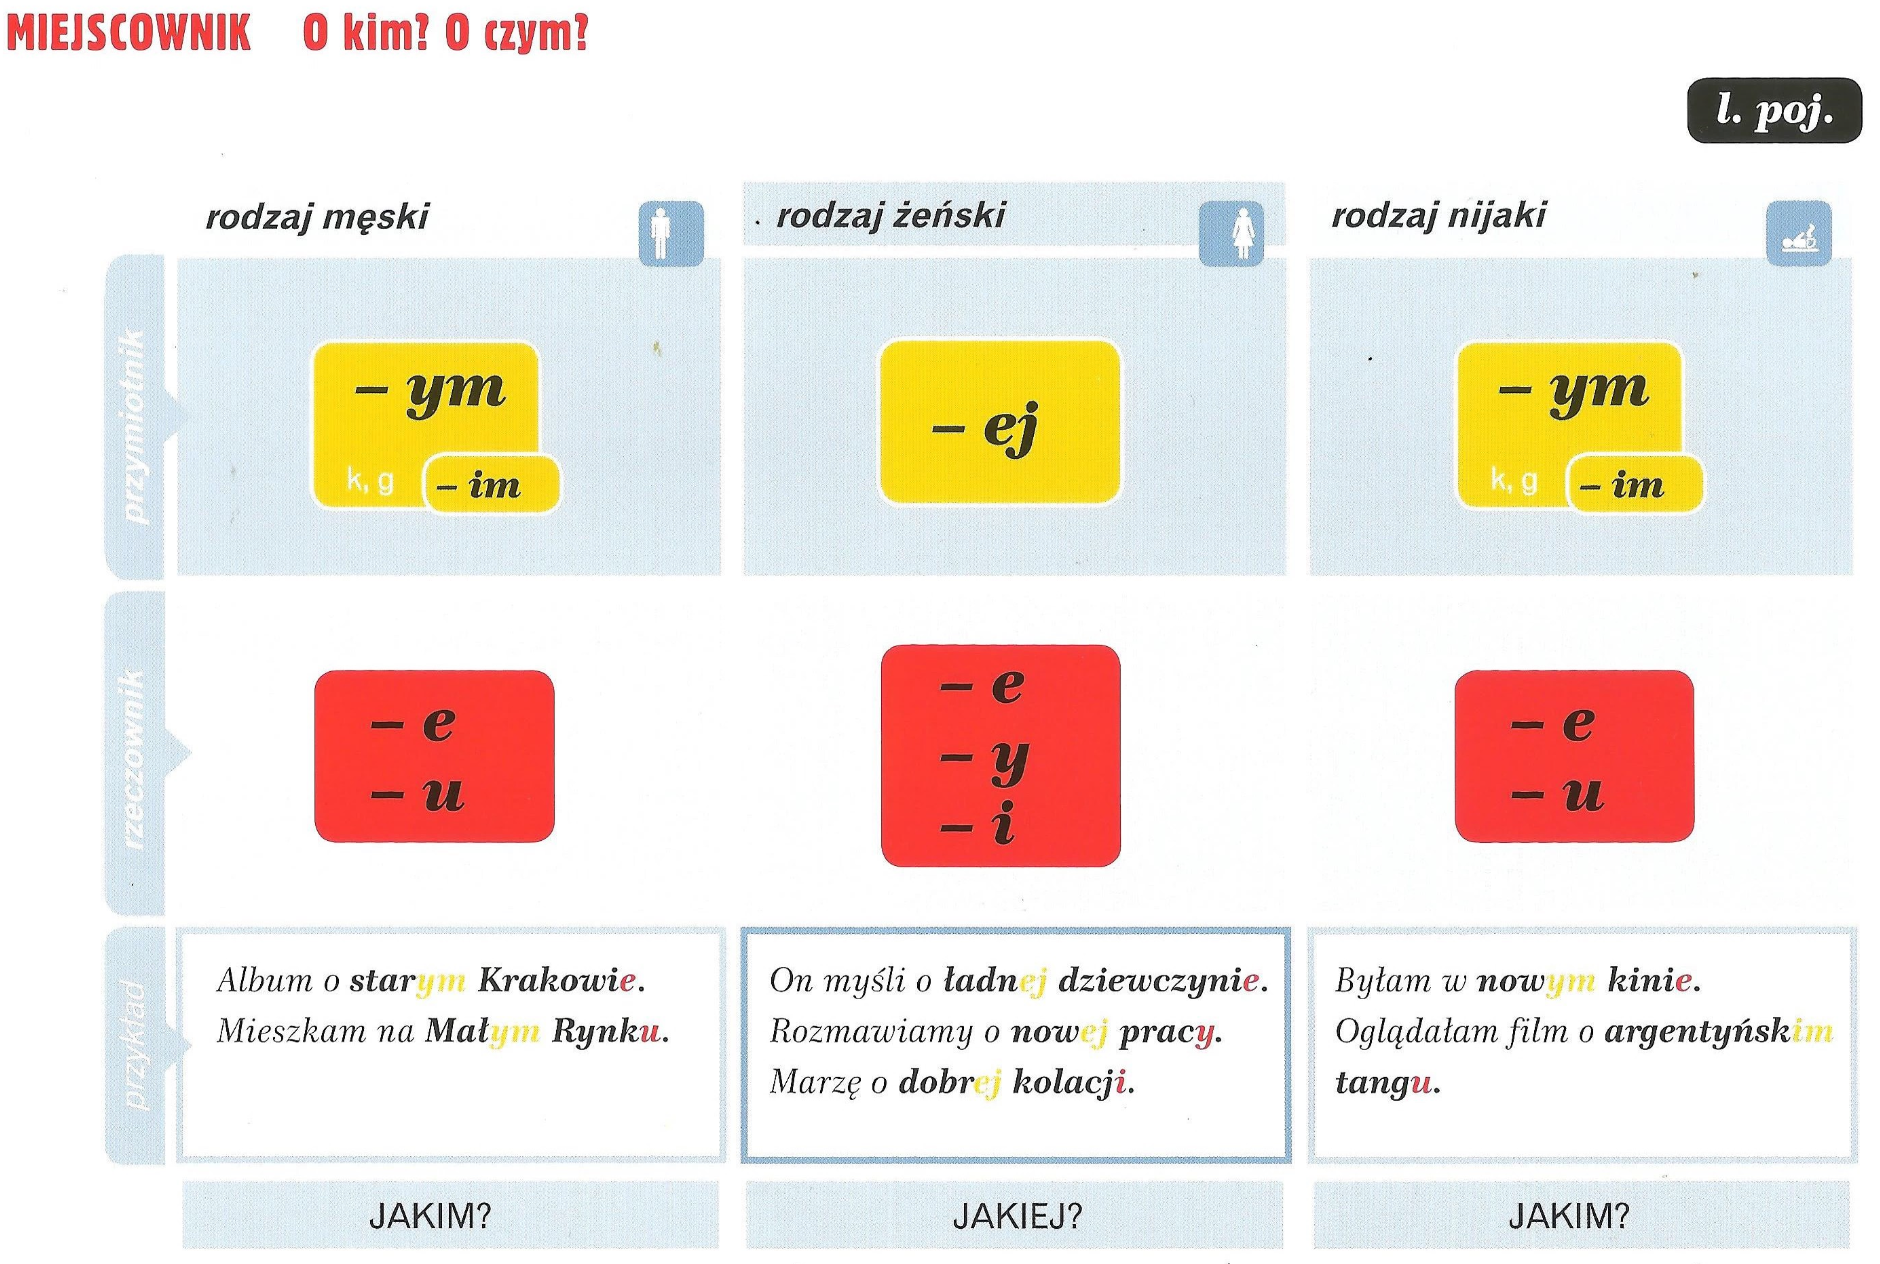
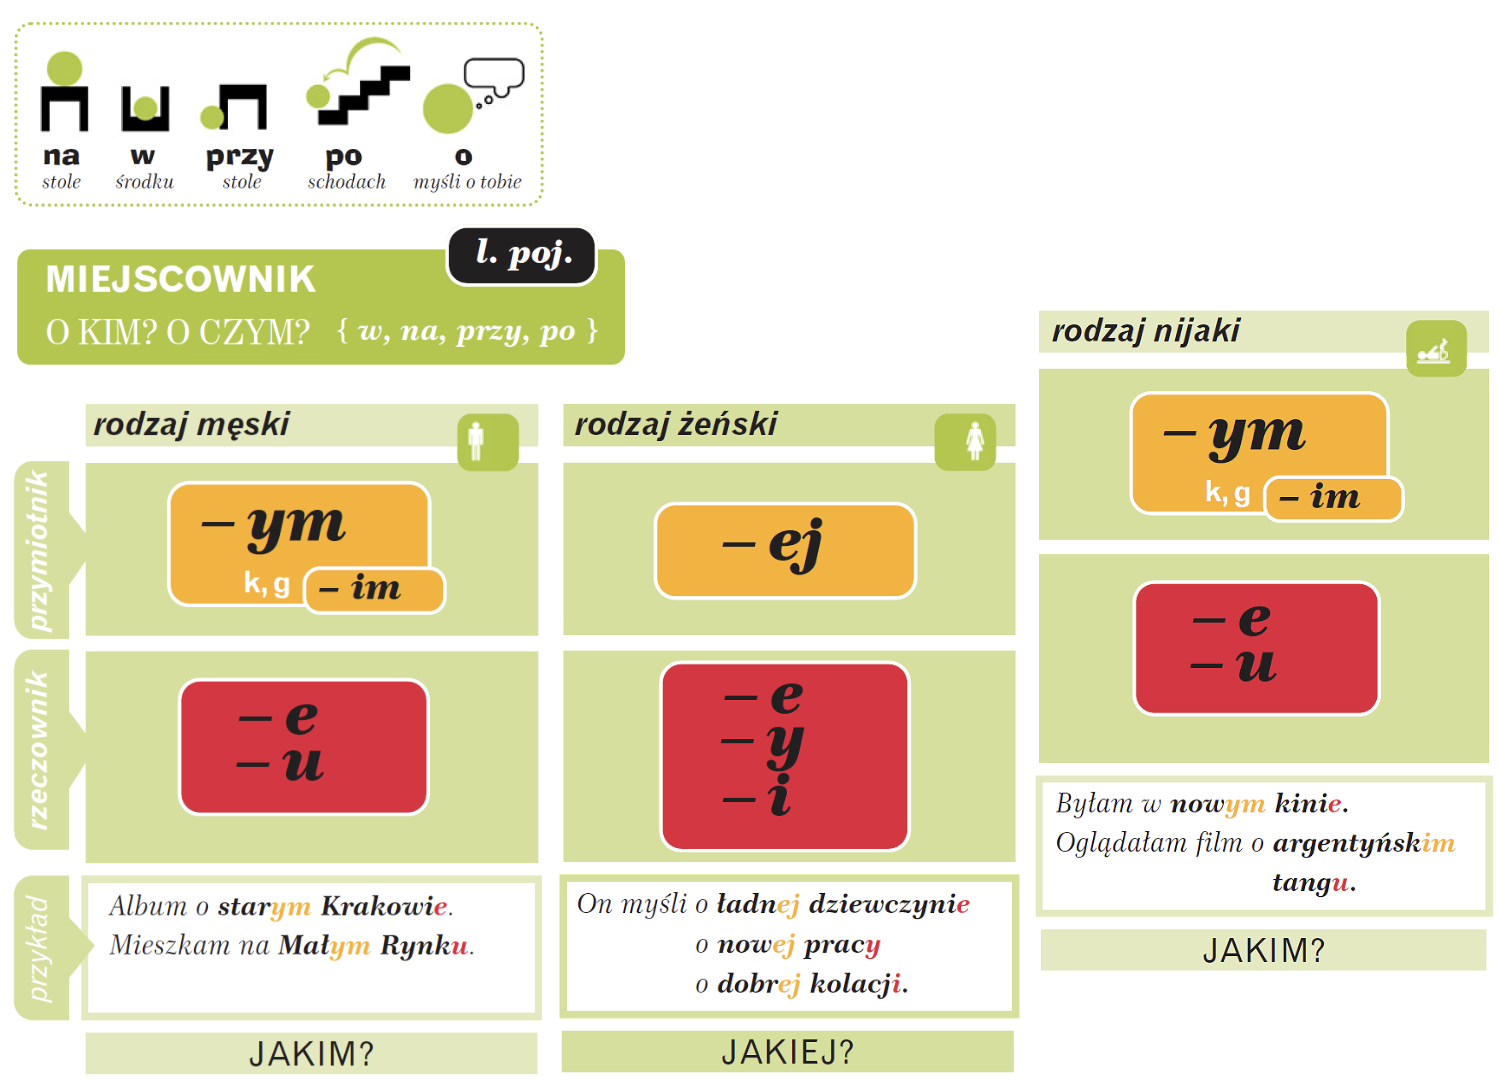
end czasownik

diff --git a/4_klasa/gramatyka/lekcji/czasownik.html b/4_klasa/gramatyka/lekcji/czasownik.html
@@ -64,8 +64,11 @@
     </header>
     <main class="wrapper">
         <h1>Gramatyka</h1>
-        <h2>Czasownik</h2>
-       
+        <h2></h2>
+        <div class="zagolRed">
+            <p>Czasownik</p>
+        </div>
+
         <div>
             <p><em>Czasownik to część mowy określająca czynności, stany lub procesy.</em></p>
             <div class="image">
@@ -99,45 +102,333 @@
                 <li><a class="time" data-time="606">10:06 Podsumowanie</a></li>
             </ul>
         </div>
-        <div class="two">
-            <div class="image">
-                <img src="https://aniakubica.com/wp-content/uploads/2021/03/czasownik-notatka.jpg" alt=""
-                    class="zoomable">
-            </div>
-            <div class="image">
-                <img src="https://aniakubica.com/wp-content/uploads/2021/03/czasowniki-osobowe-nieosobowe.jpg" alt=""
-                    class="zoomable">
-                     <img src="https://aniakubica.com/wp-content/uploads/2021/03/czasowniki-nieodobowe-podzial.jpg" alt=""
-                class="zoomable">
-            </div>
 
-        </div>
-        <div class="two">
-            <div class="image">
-                <img src="https://aniakubica.com/wp-content/uploads/2021/03/odmiana-czasownika.jpg" alt=""
-                    class="zoomable">
+        <!-- Koniugacje -->
+        <div>
+            <p class="p35">Koniugacje</p>
+            <p class="p22"><b>Czasowniki</b> w języku polskim odmieniają się przez <b>osoby, czasy, tryby, strony</b> i
+                częściowo także przez <b>rodzaje</b>. Podstawową formą czasownika jest <em
+                    class="red">bezokolocznik</em>, który zwykle ma końcówkię <em><b class="red">-ć</b></em>.</p>
+            <h6>W czasie terażniejszym wyróżniamy try <em class="red">grupy koniugacyjne:</em></h6>
+            <p class="p24 violet"><b>I - -ę, -esz</b></p>
+            <p class="p24 violet"><b>II - -ę, -isz/ysz</b></p>
+            <p class="p24 violet"><b>III - -m, -sz</b></p>
+            <p class="p22">Niestety, przynależność do danej grupy nie jest tak oczywista. Nie zawsze po końcóece
+                bezokolicznika możemy okrieślić model koniugacji. Informację tę należy czasem sprawdzić w
+                <em>słowniku</em>.
+            </p>
+            <p class="p22"><b>Odmieniając</b> czasownik należy <em>odciąć końcówkę bezokolicznika</em> i <em>dodać
+                    końcówki odpowiednej koniugacji.</em></p>
+            <div class="two">
+                <div class="image">
+                    <img src="./image/koniug1a.png" class="zoomable"><img src="./image/koniug1b.png" class="zoomable">
+                </div>
+                <div class="image">
+                    <img src="./image/koniug2_3.png" class="zoomable">
+                </div>
             </div>
             <div class="image">
-                <img src="https://aniakubica.com/wp-content/uploads/2021/03/odmiana-czasownika-przez-osoby-i-liczby.jpg"
-                    alt="" class="zoomable">
+                <img src="./image/koniugacja.png" class="zoomable">
             </div>
-        </div>
-        <div class="image">
-            <img src="https://aniakubica.com/wp-content/uploads/2021/03/czasownik-odmiana-przez-czasy.jpg" alt=""
-                class="zoomable">
-        </div>
-        <div class="image">
-            <img src="https://aniakubica.com/wp-content/uploads/2021/03/tryby-czasownika.jpg" alt="" class="zoomable">
-        </div>
-        <div class="image">
-            <img src="https://aniakubica.com/wp-content/uploads/2021/03/aspekty-czasownika.jpg" alt="" class="zoomable">
-        </div>
-        <div class="image">
-            <img src="https://aniakubica.com/wp-content/uploads/2021/03/pisownia-nie-z-czasownikami.jpg" alt=""
-                class="zoomable">
         </div>
 
-        <h3><a href="https://aniakubica.com/kursy-internetowe/czasownik-od-podstaw/" target="_blank">Czasownik od podstaw >>></a></h3>
+        <p class="p35">Czasownik</p>
+        <div>
+            <div class="two">
+                <div class="image">
+                    <img src="https://aniakubica.com/wp-content/uploads/2021/03/czasownik-notatka.jpg" alt=""
+                        class="zoomable">
+                </div>
+                <div class="image">
+                    <img src="https://aniakubica.com/wp-content/uploads/2021/03/czasowniki-osobowe-nieosobowe.jpg"
+                        alt="" class="zoomable">
+                    <img src="https://aniakubica.com/wp-content/uploads/2021/03/czasowniki-nieodobowe-podzial.jpg"
+                        alt="" class="zoomable">
+                </div>
+
+            </div>
+            <div class="two">
+                <div class="image">
+                    <img src="https://aniakubica.com/wp-content/uploads/2021/03/odmiana-czasownika.jpg" alt=""
+                        class="zoomable">
+                </div>
+                <div class="image">
+                    <img src="https://aniakubica.com/wp-content/uploads/2021/03/odmiana-czasownika-przez-osoby-i-liczby.jpg"
+                        alt="" class="zoomable">
+                </div>
+            </div>
+        </div>
+        <!-- czas -->
+        <p class="p35">Czas czasownika</p>
+        <div>
+
+            <div class="image">
+                <img src="https://aniakubica.com/wp-content/uploads/2021/03/czasownik-odmiana-przez-czasy.jpg" alt=""
+                    class="zoomable">
+            </div>
+            <h3>Czas przeszły (прошлое)</h3>
+            <div class="two">
+                <div class="image"><img src="./image/czas_prześl_a.png" class="zoomable" style="width: 100%;"></div>
+                <div class="image"><img
+                        src="https://student.e-coursebook.eu/api/content/6d076a4d-05bb-4a8f-becb-27987eb99d24/IMAGE/El-wA11s/113a-kiedy.png"
+                        class="zoomable" style="width: 65%;"></div>
+            </div>
+            <div class="image" style="width: 100%;"><img src="./image/czas_prześl_b.png" class="zoomable"
+                    style="width: 100%;"></div>
+            <div class="image"><img
+                    src="https://student.e-coursebook.eu/api/content/6d076a4d-05bb-4a8f-becb-27987eb99d24/IMAGE/El-ZuRmo/pic(113C-je%C5%9B%C4%87).gif"
+                    class="zoomable" style="width: 60%;"></div>
+            <div class="image">
+                <img src="https://student.e-coursebook.eu/api/content/6d076a4d-05bb-4a8f-becb-27987eb99d24/IMAGE/El-ayAuG/PIC1(113C-ISC).png"
+                    class="zoomable" style="width: 60%;">
+            </div>
+            <h3>Czas przyszły złożony <br>(будущее сложное)</h3>
+            <div class="image"><img src="./image/czas_przyszly_a.png" class="zoomable" style="width: 70%;"></div>
+            <div class="image">
+                <img src="./image/czas_przyszly_b.png" class="zoomable" style="width: 100%;">
+            </div>
+            <!-- Aspekt czasownika -->
+            <p class="p35">Aspekt czasownika</p>
+            <h6>1⃣ Что такое аспект глагола</h6>
+            <p class="p22">В польском (как и в русском) аспект глагола показывает, как действие развивается во времени:</p>
+            <ul class="ul">
+                <li>Aspekt dokonany (совершенный) — действие завершённое, указывает на результат.</li>
+                <li>Aspekt niedokonany (несовершенный) — действие процессуальное или повторяющееся, не акцентирует на результате.</li>
+            </ul>
+            <h6>Важные моменты для использования</h6>
+            <p class="p20">1. Niedokonany часто используется:</p>
+            <ul class="ul">
+                <li>для действий, которые происходят регулярно: „Codziennie czytam książkę” → «Каждый день читаю книгу»</li>
+                <li>для описания процесса: „Czytam książkę” → «Читаю книгу сейчас»</li>
+            </ul>
+            <p class="p20">2. Dokonany чаще для:</p>
+            <ul class="ul">
+                <li>завершённых действий: „Przeczytałem książkę” → «Я прочитал книгу»</li>
+                <li>однократных событий: „Napisałem list” → «Я написал письмо»</li>
+            </ul>
+            <p class="p20">3. Отрицание меняет аспект:</p>
+            <ul class="ul">
+                <li>„Nie zrobiłem” → «Не сделал» (dok.)</li>
+                <li>„Nie robiłem” → «Не делал / не занимался» (niedok.)</li>
+            </ul>
+            <div>
+                <div class="image">
+                    <img src="https://aniakubica.com/wp-content/uploads/2021/03/aspekty-czasownika.jpg" alt=""
+                        class="zoomable">
+                </div>
+                <h3>Aspekt w czasie przeszłym</h3>
+                <div class="image"><img src="./image/aspekt_przeszlym_a.png" class="zoomable" style="width: 60%;"></div>
+                <div class="image">
+                    <img src="./image/aspekt_przeszlym_b.png" class="zoomable" style="width: 100%;">
+                </div>
+                <h3>Aspekt w czasie przyszłym</h3>
+                <div class="image"><img src="./image/aspekt_przyszlym_a.png" class="zoomable" style="width: 60%;"></div>
+                <div class="image">
+                    <img src="./image/aspekt_przyszlym_b.png" class="zoomable" style="width: 100%;">
+                </div>
+            </div>
+            <!-- pary aspektuw -->
+            <h5>Podstawowe pary aspektowe</h5>
+            <div class="two">
+                <table style="margin-right: 2px;">
+                    <tr>
+                        <th>czasowniki niedokanane</th>
+                        <th>czasowniki dokonane</th>
+                    </tr>
+                    <tr>
+                        <td>czekać</td>
+                        <td>poczekać</td>
+                    </tr>
+                    <tr>
+                        <td>czytać</td>
+                        <td>przeczytać</td>
+                    </tr>
+                    <tr>
+                        <td>dawać</td>
+                        <td>dać</td>
+                    </tr>
+                    <tr>
+                        <td>dostawać</td>
+                        <td>dostać</td>
+                    </tr>
+                    <tr>
+                        <td>dziękować</td>
+                        <td>podziękować</td>
+                    </tr>
+                    <tr>
+                        <td>dzwonić</td>
+                        <td>zadzwonić</td>
+                    </tr>
+                    <tr>
+                        <td>gotować</td>
+                        <td>ugotować</td>
+                    </tr>
+                    <tr>
+                        <td>iść</td>
+                        <td>pójść</td>
+                    </tr>
+                    <tr>
+                        <td>jechać</td>
+                        <td>pojechać</td>
+                    </tr>
+                    <tr>
+                        <td>jeść</td>
+                        <td>zjeść</td>
+                    </tr>
+                    <tr>
+                        <td>kończyć</td>
+                        <td>skończyć</td>
+                    </tr>
+                    <tr>
+                        <td>kupować</td>
+                        <td>kupić</td>
+                    </tr>
+                    <tr>
+                        <td>lubić</td>
+                        <td>polubić</td>
+                    </tr>
+                    <tr>
+                        <td>myć</td>
+                        <td>umyć</td>
+                    </tr>
+                    <tr>
+                        <td>odwiedzać</td>
+                        <td>odwiedzić</td>
+                    </tr>
+                    <tr>
+                        <td>otwerać</td>
+                        <td>oiworzyć</td>
+                    </tr>
+                    <tr>
+                        <td>pamiętać</td>
+                        <td>zapamietać</td>
+                    </tr>
+                    <tr>
+                        <td>pić</td>
+                        <td>wypić</td>
+                    </tr>
+                    <tr>
+                        <td>pisać</td>
+                        <td>napisać</td>
+                    </tr>
+                    <tr>
+                        <td>płacić</td>
+                        <td>zapłacić</td>
+                    </tr>
+                </table>
+                <table style="margin-left: 2px;">
+                    <tr>
+                        <th>czasowniki niedokanane</th>
+                        <th>czasowniki dokonane</th>
+                    </tr>
+                    <tr>
+                        <td>podobać się</td>
+                        <td>spodobać się</td>
+                    </tr>
+                    <tr>
+                        <td>pomagać</td>
+                        <td>pomóc</td>
+                    </tr>
+                    <tr>
+                        <td>powtarzać</td>
+                        <td>powtórzyć</td>
+                    </tr>
+                    <tr>
+                        <td>prosić</td>
+                        <td>poprosić</td>
+                    </tr>
+                    <tr>
+                        <td>przepraszać</td>
+                        <td>przeprosić</td>
+                    </tr>
+                    <tr>
+                        <td>pytać</td>
+                        <td>spytać</td>
+                    </tr>
+                    <tr>
+                        <td>robić</td>
+                        <td>zrobić</td>
+                    </tr>
+                    <tr>
+                        <td>rozumieć</td>
+                        <td>zrozumieć</td>
+                    </tr>
+                    <tr>
+                        <td>spotykać się</td>
+                        <td>spotkać się</td>
+                    </tr>
+                    <tr>
+                        <td>szukać</td>
+                        <td>poszukać</td>
+                    </tr>
+                    <tr>
+                        <td>uczyć się</td>
+                        <td>nauczyć się</td>
+                    </tr>
+                    <tr>
+                        <td>umawiać się</td>
+                        <td>umówić się</td>
+                    </tr>
+                    <tr>
+                        <td>wracać</td>
+                        <td>wrócić</td>
+                    </tr>
+                    <tr>
+                        <td>zaczynać</td>
+                        <td>zaczać</td>
+                    </tr>
+                    <tr>
+                        <td>zamawiać</td>
+                        <td>zamówić</td>
+                    </tr>
+                    <tr>
+                        <td>zamykać</td>
+                        <td>zamknąć</td>
+                    </tr>
+                    <tr>
+                        <td>zapraszać</td>
+                        <td>zaprosić</td>
+                    </tr>
+                    <tr>
+                        <td>zwedzać</td>
+                        <td>zwiedzić</td>
+                    </tr>
+                    <tr>
+                        <td>zostawać</td>
+                        <td>zostać</td>
+                    </tr>
+                </table>
+            </div>
+            <div class="image" style="width: 60%;">
+                <img src="./image/aspekt_nieregul.png" class="zoomable">
+            </div>
+            <!-- czasowniki ruchu -->
+            <div class="image" style="width: 70%;">
+                <img src="./image/czasownik_ruchu_a.png" class="zoomable">
+            </div>
+            <div class="image">
+                <img src="./image/czasowniki_ruchu_b.png" class="zoomable">
+            </div>
+            <div class="image" style="width: 60%;">
+                <img src="./image/czasowniki_ruchu_2_a.png" class="zoomable">
+            </div>
+            <div class="image">
+                <img src="./image/czasowniki_ruchu_2_b.png" class="zoomable">
+            </div>
+            <!-- Trzyby czasownika -->
+            <p class="p35">Trzyby czasownika</p>
+            <div class="image">
+                <img src="https://aniakubica.com/wp-content/uploads/2021/03/tryby-czasownika.jpg" alt=""
+                    class="zoomable">
+            </div>
+
+            <div class="image">
+                <img src="https://aniakubica.com/wp-content/uploads/2021/03/pisownia-nie-z-czasownikami.jpg" alt=""
+                    class="zoomable">
+            </div>
+
+            <h3><a href="https://aniakubica.com/kursy-internetowe/czasownik-od-podstaw/" target="_blank">Czasownik od
+                    podstaw >>></a></h3>
 
 
     </main>

diff --git a/4_klasa/gramatyka/lekcji/przypadki/dopielmiacz.html b/4_klasa/gramatyka/lekcji/przypadki/dopielmiacz.html
@@ -44,7 +44,7 @@
         <!--  Dopełniacz liczba mnoga -->
         <h4>Dopełniacz liczby mnogej</h4>
         <div class="image">
-            <img src="./image/dopielniacz/dopieln_l_m.png" class="zoomable">
+            <img src="https://student.e-coursebook.eu/api/content/6d076a4d-05bb-4a8f-becb-27987eb99d24/IMAGE/El-7zGpH/pic1(115b-dope%C5%82niacz).png" class="zoomable">
         </div>
         <div class="image">
             <img src="./image/dopielniacz/prawilo_dopieln_l_m.png" class="zoomable">
